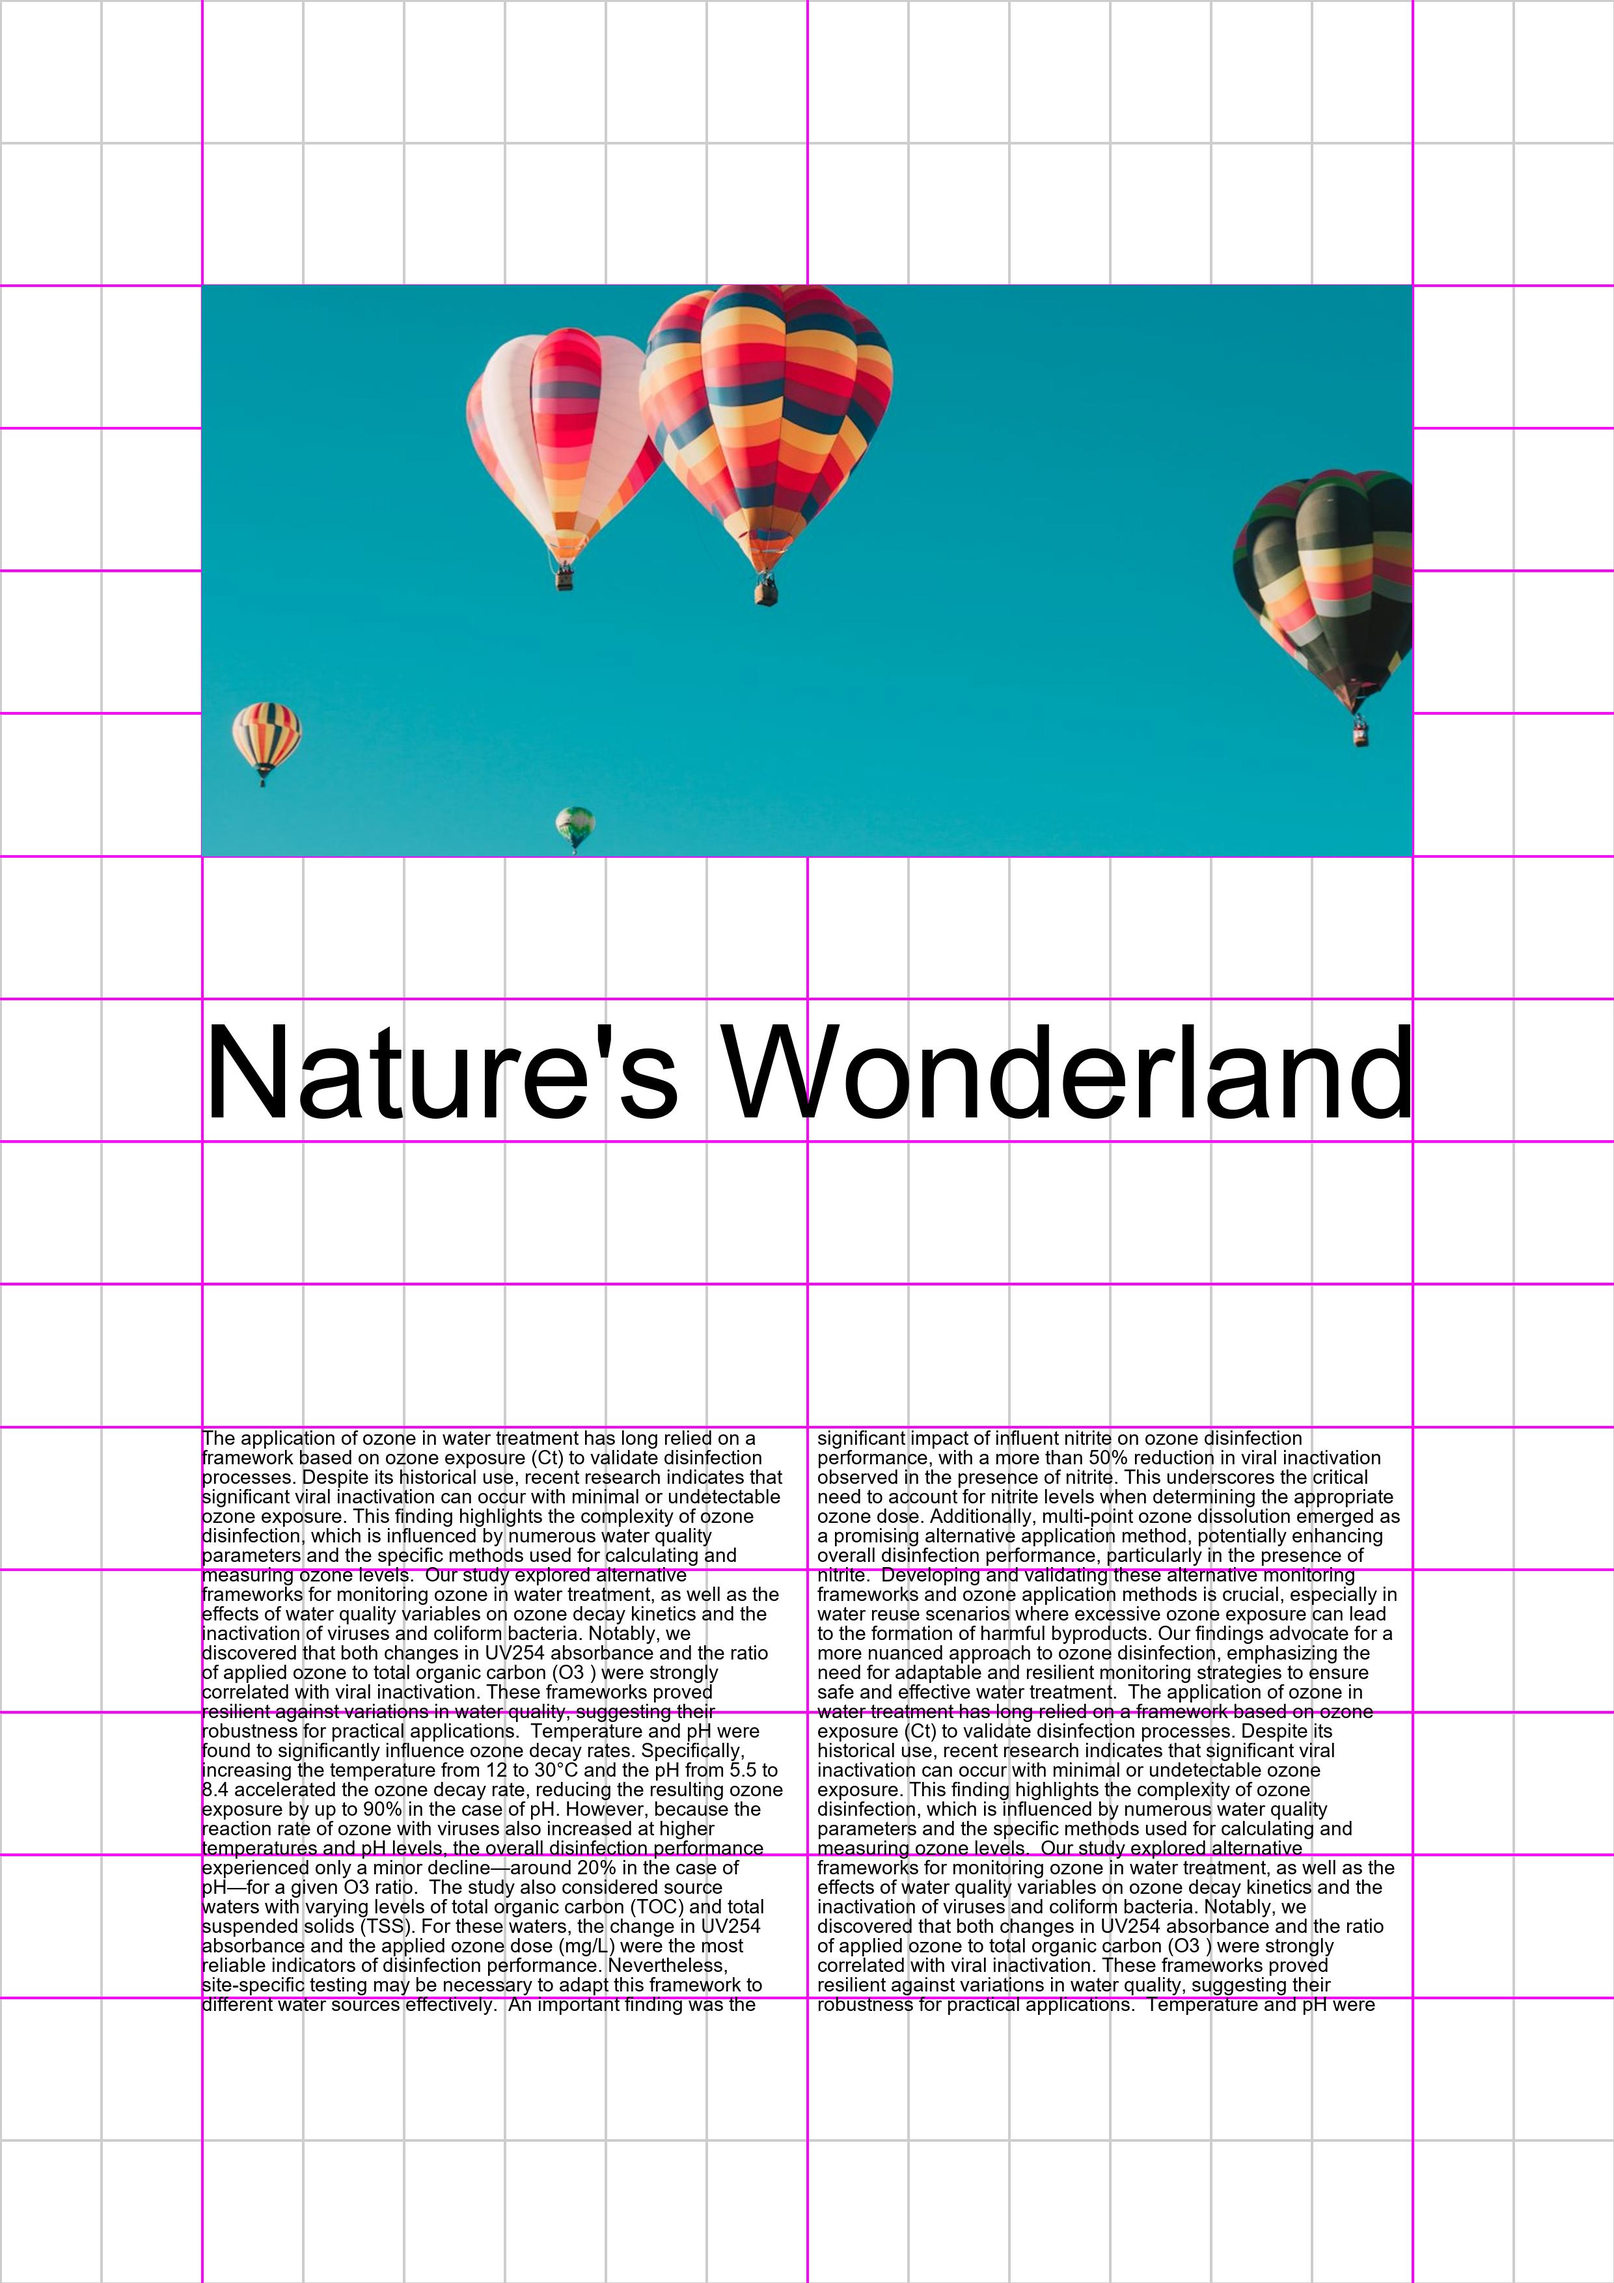
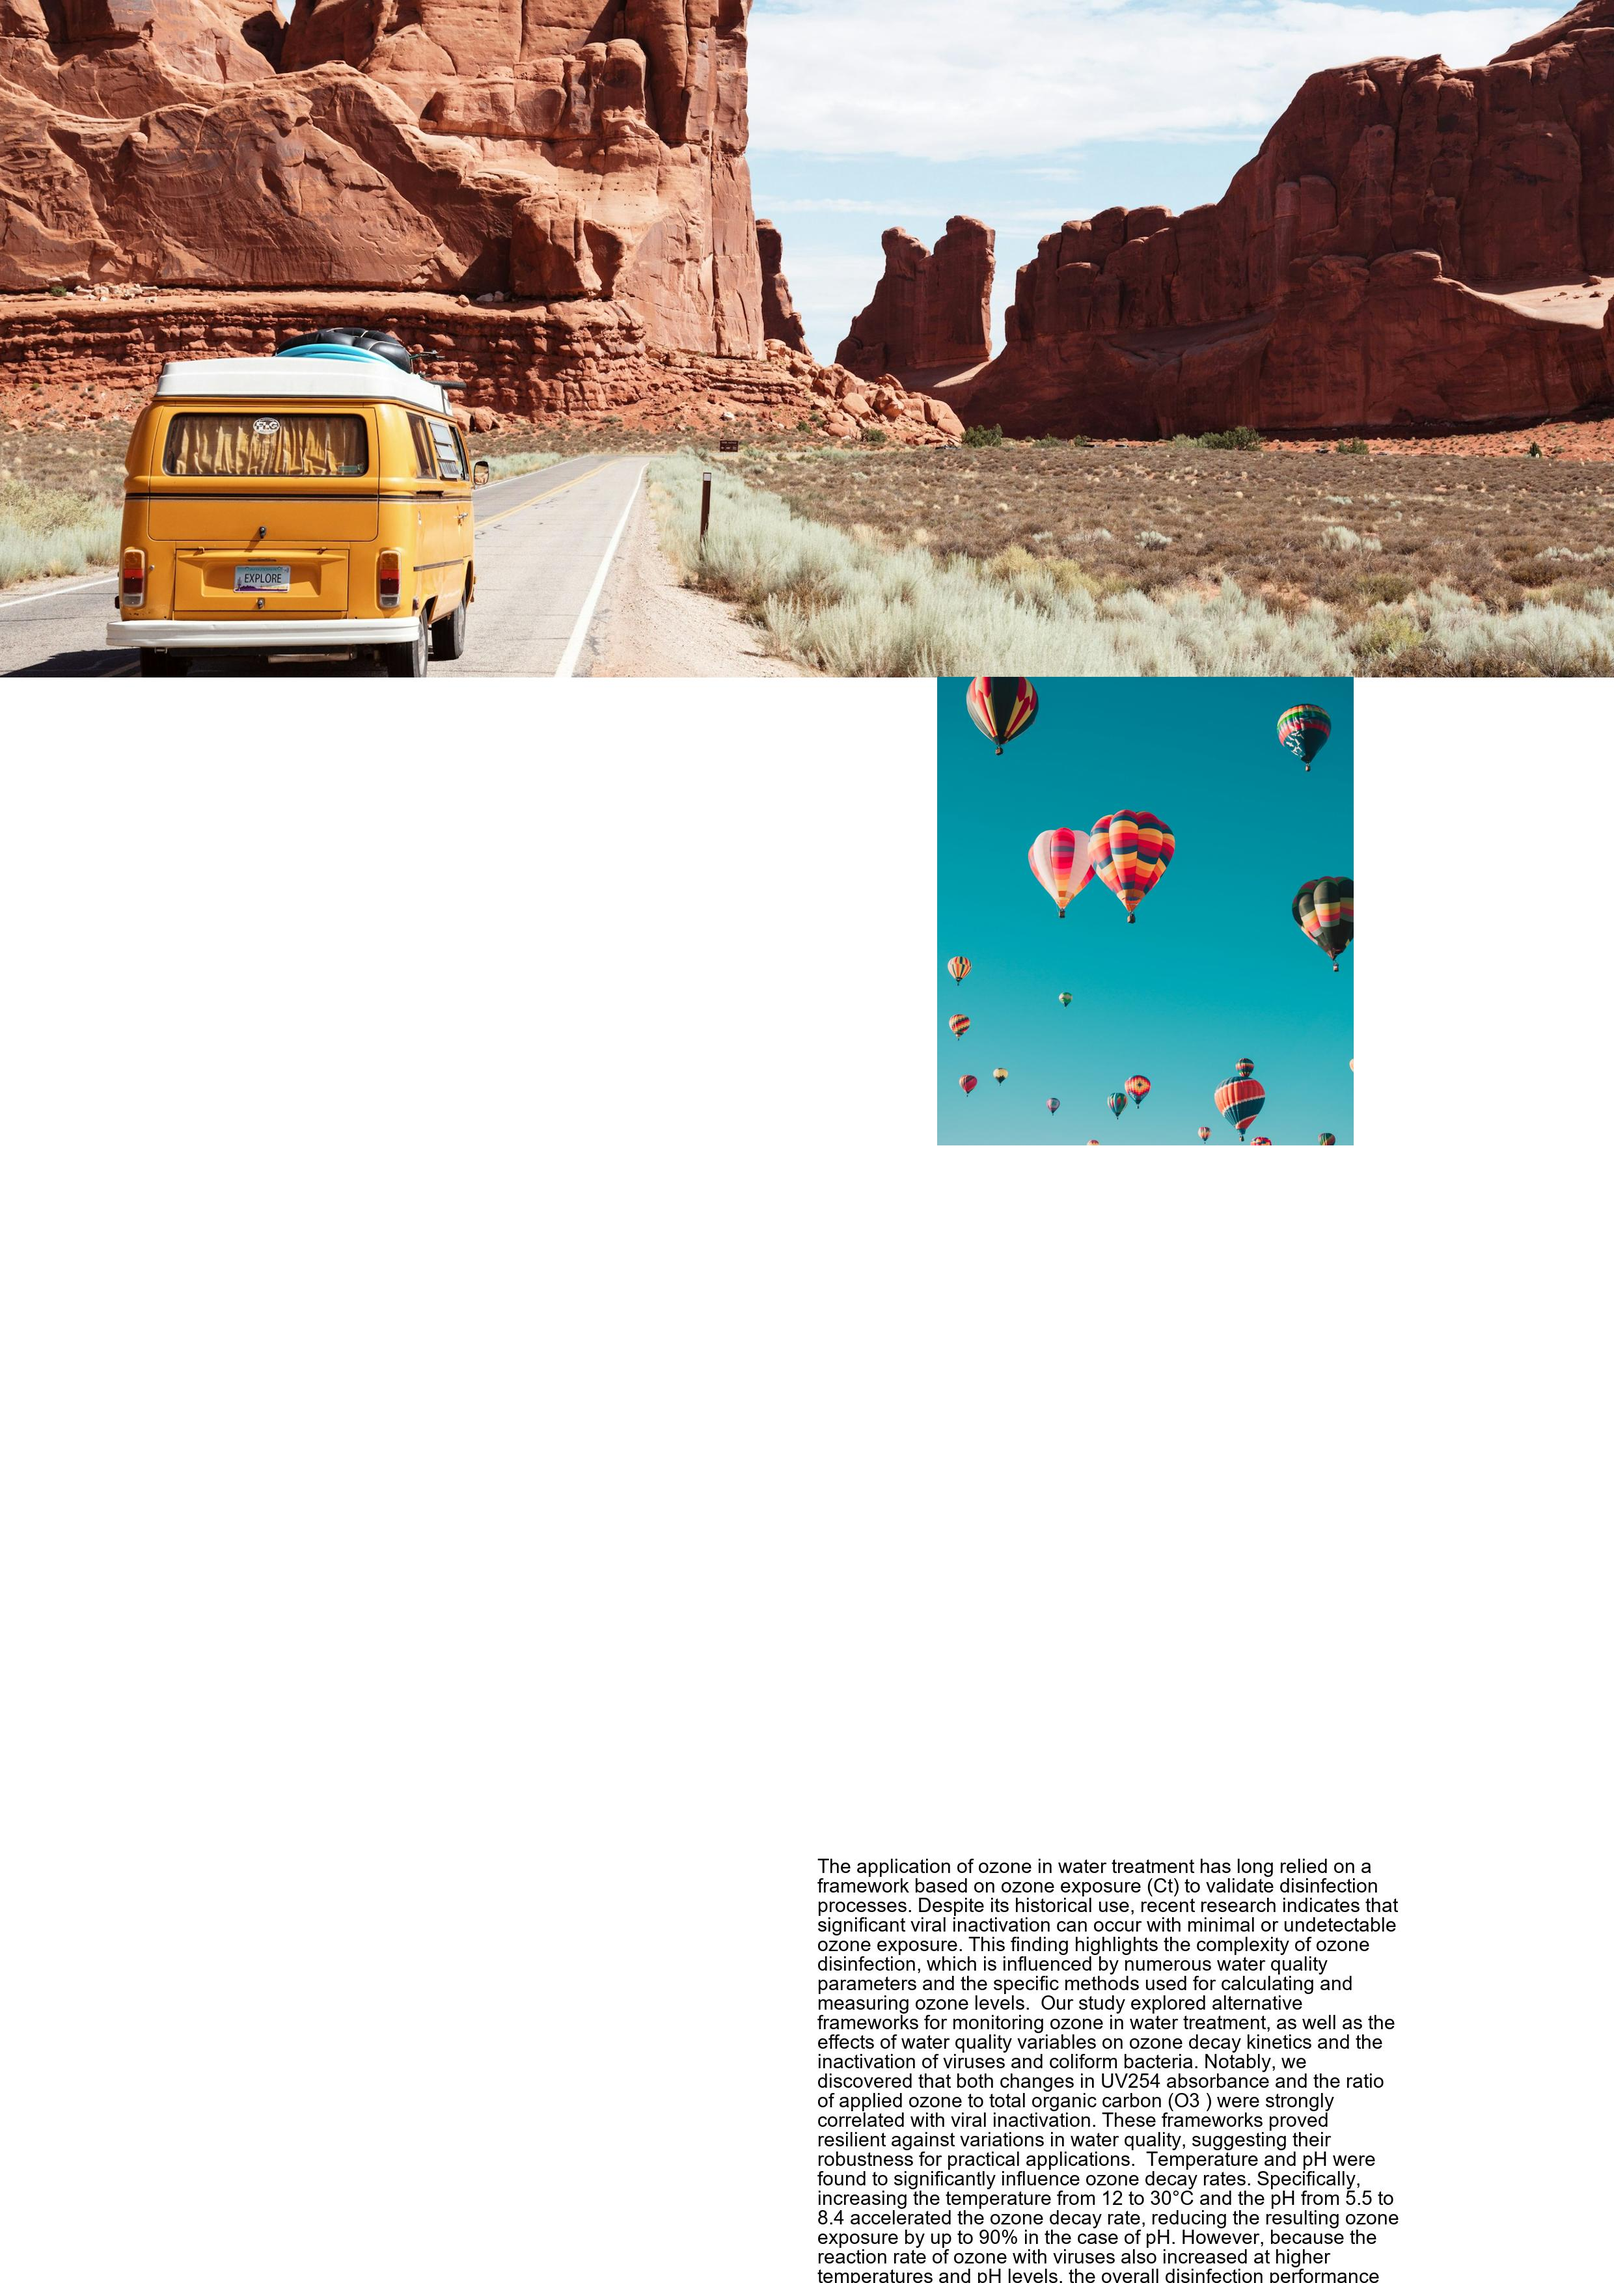
'

diff --git a/layout_manager_3.py b/layout_manager_3.py
@@ -37,10 +37,10 @@ C_IMAGES = [
 ]
 
 # FLAGS
-flag_a4_grid = 1
+flag_a4_grid = 0
 flag_brush_type = 'i'
 show_grid = 1
-flag_image_num = 1
+flag_image_num = 0
 
 # FONTS
 body_font = ImageFont.truetype("assets/fonts/arial/ARIAL.TTF", g.BODY_FONT_SIZE)
@@ -136,6 +136,7 @@ def a4_draw_grid_2(draw):
         x_2 = g.A4_WIDTH
         y_2 = int(cell_size*10/2*i)
         draw.line((x_1, y_1, x_2, y_2), fill=g.C_GRID, width=4)
+
 
 def a4_draw_guides_2(draw):
     for i in range(grid_col_num+1):
@@ -254,7 +255,7 @@ def a4_draw_image_3(img):
         is_first_pos = True
         for row_i in range(grid_row_num):
             for col_i in range(grid_col_num):
-                if grid_map[row_i][col_i] == f'i_{i}':
+                if f'i_{i}' in grid_map[row_i][col_i]:
                     if is_first_pos: 
                         col_i_x_1 = col_i
                         col_i_y_1 = row_i
@@ -263,7 +264,6 @@ def a4_draw_image_3(img):
                         col_i_x_2 = col_i
                         col_i_y_2 = row_i
 
-        print(col_i_x_1, col_i_y_1, col_i_x_2, col_i_y_2)
         if col_i_x_1 != '' and col_i_y_1 != '' and col_i_x_2 != '' and col_i_y_2 != '':
             x_1 = int(cell_size*10/2 * col_i_x_1)
             y_1 = int(cell_size*10/2 * col_i_y_1)
@@ -419,7 +419,7 @@ def template_jpg_save(last_template_id_str):
         a4_draw_guides(draw)
 
     a4_draw_title(draw)
-    a4_draw_image(img)
+    a4_draw_image_3(img)
 
     blocks_list = a4_body_blocks()
 
@@ -528,25 +528,35 @@ while True:
                         if flag_brush_type == 'b':
                             tmp_grid_map[row_i][col_i] = 'b'
                         if flag_brush_type == 'i' and flag_image_num == 0:
-                            tmp_grid_map[row_i][col_i] = f'i_0'
+                            if 'i_0' not in tmp_grid_map[row_i][col_i]:
+                                tmp_grid_map[row_i][col_i] += f'i_0'
                         if flag_brush_type == 'i' and flag_image_num == 1:
-                            tmp_grid_map[row_i][col_i] = f'i_1'
+                            if 'i_1' not in tmp_grid_map[row_i][col_i]:
+                                tmp_grid_map[row_i][col_i] += f'i_1'
                         if flag_brush_type == 'i' and flag_image_num == 2:
-                            tmp_grid_map[row_i][col_i] = f'i_2'
+                            if 'i_2' not in tmp_grid_map[row_i][col_i]:
+                                tmp_grid_map[row_i][col_i] += f'i_2'
                         if flag_brush_type == 'i' and flag_image_num == 3:
-                            tmp_grid_map[row_i][col_i] = f'i_3'
+                            if 'i_3' not in tmp_grid_map[row_i][col_i]:
+                                tmp_grid_map[row_i][col_i] += f'i_3'
                         if flag_brush_type == 'i' and flag_image_num == 4:
-                            tmp_grid_map[row_i][col_i] = f'i_4'
+                            if 'i_4' not in tmp_grid_map[row_i][col_i]:
+                                tmp_grid_map[row_i][col_i] += f'i_4'
                         if flag_brush_type == 'i' and flag_image_num == 5:
-                            tmp_grid_map[row_i][col_i] = f'i_5'
+                            if 'i_5' not in tmp_grid_map[row_i][col_i]:
+                                tmp_grid_map[row_i][col_i] += f'i_5'
                         if flag_brush_type == 'i' and flag_image_num == 6:
-                            tmp_grid_map[row_i][col_i] = f'i_6'
+                            if 'i_6' not in tmp_grid_map[row_i][col_i]:
+                                tmp_grid_map[row_i][col_i] += f'i_6'
                         if flag_brush_type == 'i' and flag_image_num == 7:
-                            tmp_grid_map[row_i][col_i] = f'i_7'
+                            if 'i_7' not in tmp_grid_map[row_i][col_i]:
+                                tmp_grid_map[row_i][col_i] += f'i_8'
                         if flag_brush_type == 'i' and flag_image_num == 8:
-                            tmp_grid_map[row_i][col_i] = f'i_8'
+                            if 'i_8' not in tmp_grid_map[row_i][col_i]:
+                                tmp_grid_map[row_i][col_i] += f'i_8'
                         if flag_brush_type == 'i' and flag_image_num == 9:
-                            tmp_grid_map[row_i][col_i] = f'i_9'
+                            if 'i_9' not in tmp_grid_map[row_i][col_i]:
+                                tmp_grid_map[row_i][col_i] += f'i_9'
         
         # clear blocks
         if pygame.mouse.get_pressed()[2]:
@@ -692,43 +702,43 @@ while True:
                 red_y_1 = page_y + cell_size * row_i
                 pygame.draw.rect(screen, '#000000', (red_x_1, red_y_1, cell_size, cell_size))
 
-            if tmp_grid_map[row_i][col_i] == 'i_0':
+            if 'i_0' in tmp_grid_map[row_i][col_i]:
                 red_x_1 = page_x + cell_size * col_i
                 red_y_1 = page_y + cell_size * row_i
                 pygame.draw.rect(screen, C_IMAGES[0], (red_x_1, red_y_1, cell_size, cell_size))
-            if tmp_grid_map[row_i][col_i] == 'i_1':
+            if 'i_1' in tmp_grid_map[row_i][col_i]:
                 red_x_1 = page_x + cell_size * col_i
                 red_y_1 = page_y + cell_size * row_i
                 pygame.draw.rect(screen, C_IMAGES[1], (red_x_1, red_y_1, cell_size, cell_size))
-            if tmp_grid_map[row_i][col_i] == 'i_2':
+            if 'i_2' in tmp_grid_map[row_i][col_i]:
                 red_x_1 = page_x + cell_size * col_i
                 red_y_1 = page_y + cell_size * row_i
                 pygame.draw.rect(screen, C_IMAGES[2], (red_x_1, red_y_1, cell_size, cell_size))
-            if tmp_grid_map[row_i][col_i] == 'i_3':
+            if 'i_3' in tmp_grid_map[row_i][col_i]:
                 red_x_1 = page_x + cell_size * col_i
                 red_y_1 = page_y + cell_size * row_i
                 pygame.draw.rect(screen, C_IMAGES[3], (red_x_1, red_y_1, cell_size, cell_size))
-            if tmp_grid_map[row_i][col_i] == 'i_4':
+            if 'i_4' in tmp_grid_map[row_i][col_i]:
                 red_x_1 = page_x + cell_size * col_i
                 red_y_1 = page_y + cell_size * row_i
                 pygame.draw.rect(screen, C_IMAGES[4], (red_x_1, red_y_1, cell_size, cell_size))
-            if tmp_grid_map[row_i][col_i] == 'i_5':
+            if 'i_5' in tmp_grid_map[row_i][col_i]:
                 red_x_1 = page_x + cell_size * col_i
                 red_y_1 = page_y + cell_size * row_i
                 pygame.draw.rect(screen, C_IMAGES[5], (red_x_1, red_y_1, cell_size, cell_size))
-            if tmp_grid_map[row_i][col_i] == 'i_6':
+            if 'i_6' in tmp_grid_map[row_i][col_i]:
                 red_x_1 = page_x + cell_size * col_i
                 red_y_1 = page_y + cell_size * row_i
                 pygame.draw.rect(screen, C_IMAGES[6], (red_x_1, red_y_1, cell_size, cell_size))
-            if tmp_grid_map[row_i][col_i] == 'i_7':
+            if 'i_7' in tmp_grid_map[row_i][col_i]:
                 red_x_1 = page_x + cell_size * col_i
                 red_y_1 = page_y + cell_size * row_i
                 pygame.draw.rect(screen, C_IMAGES[7], (red_x_1, red_y_1, cell_size, cell_size))
-            if tmp_grid_map[row_i][col_i] == 'i_8':
+            if 'i_8' in tmp_grid_map[row_i][col_i]:
                 red_x_1 = page_x + cell_size * col_i
                 red_y_1 = page_y + cell_size * row_i
                 pygame.draw.rect(screen, C_IMAGES[8], (red_x_1, red_y_1, cell_size, cell_size))
-            if tmp_grid_map[row_i][col_i] == 'i_9':
+            if 'i_9' in tmp_grid_map[row_i][col_i]:
                 red_x_1 = page_x + cell_size * col_i
                 red_y_1 = page_y + cell_size * row_i
                 pygame.draw.rect(screen, C_IMAGES[9], (red_x_1, red_y_1, cell_size, cell_size))
